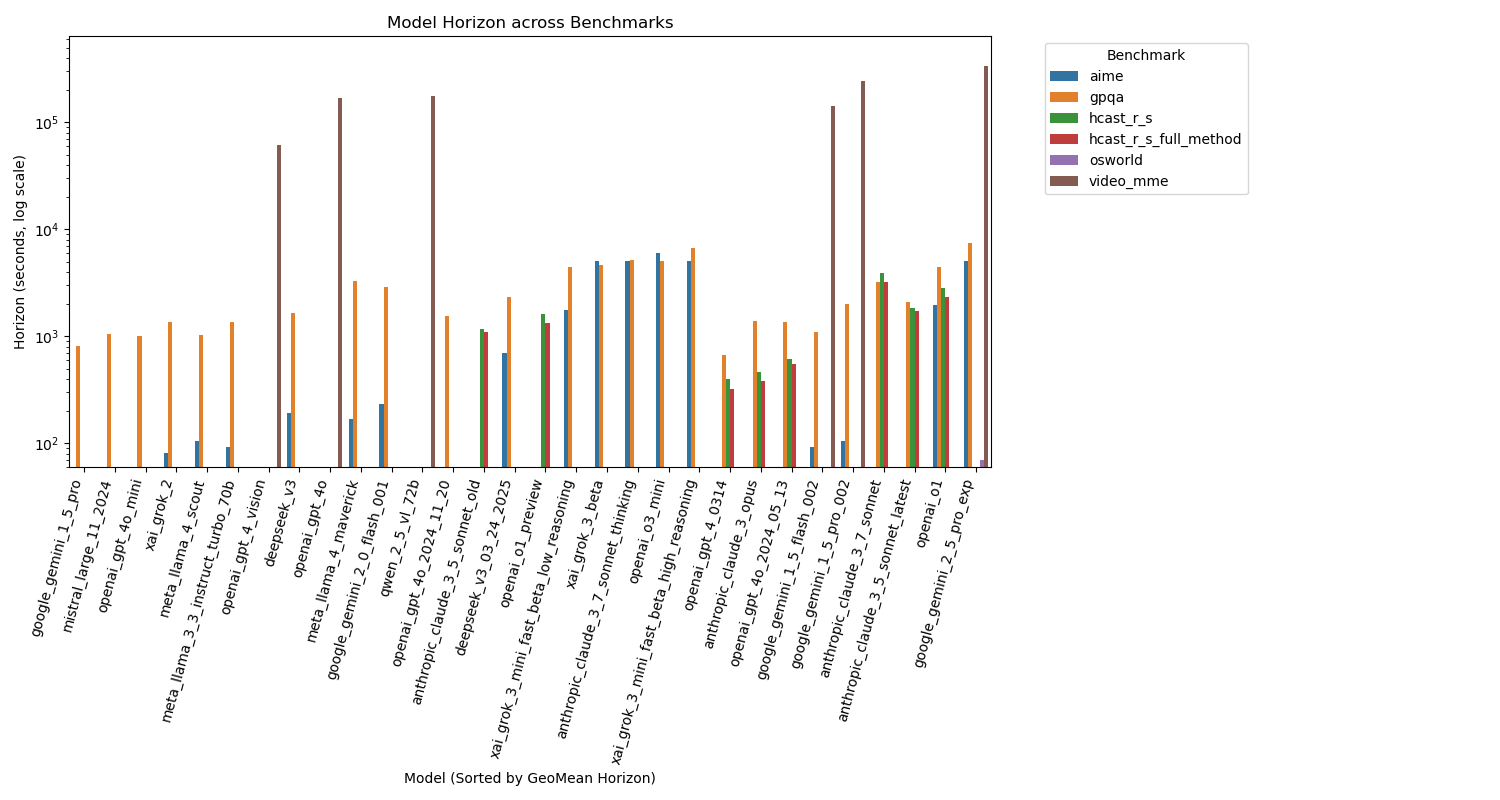
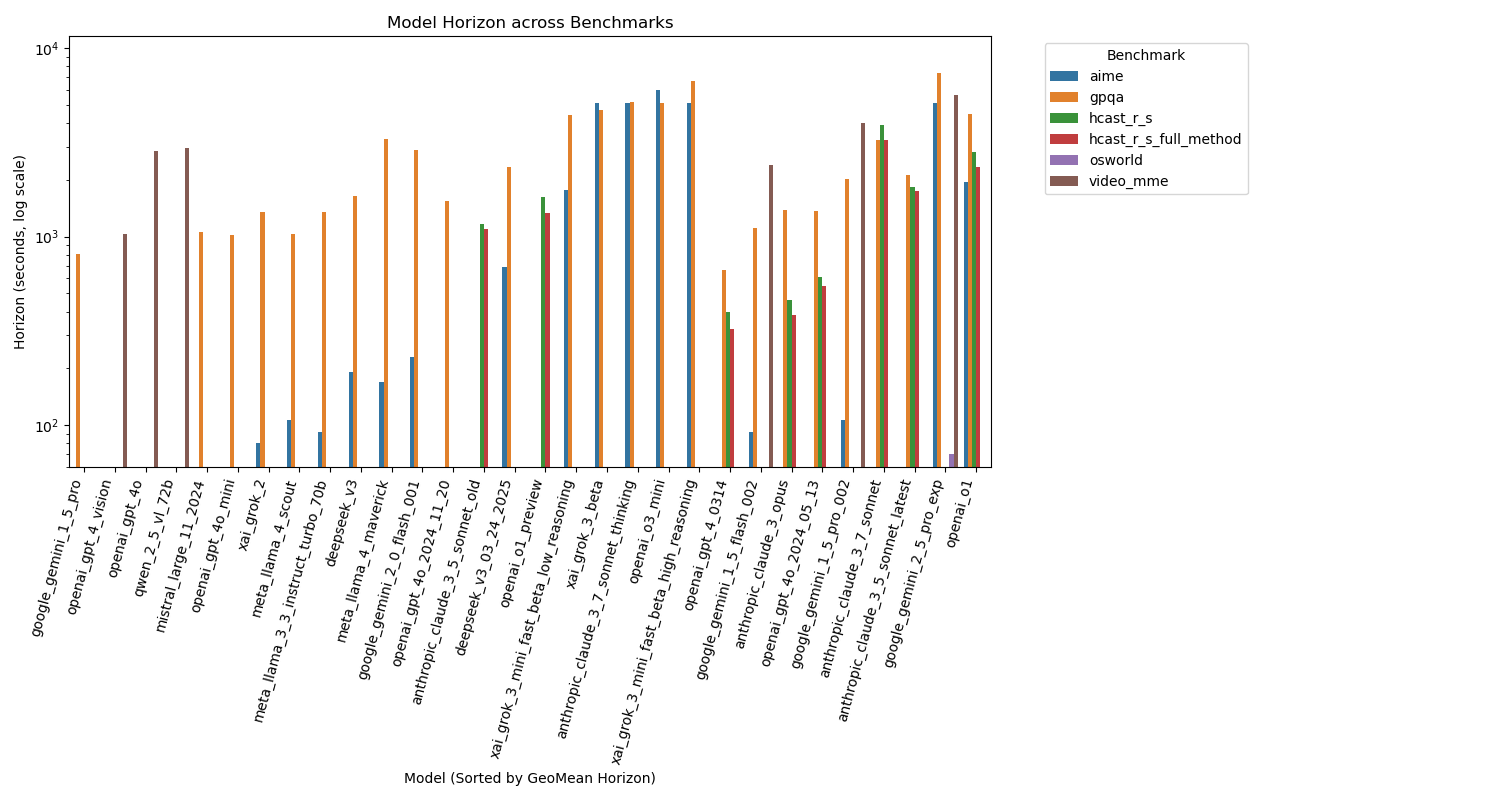
tesla and video_mme fixes

diff --git a/video_mme.py b/video_mme.py
@@ -80,8 +80,9 @@ def generate_benchmark_file(output_filename="data/benchmarks/video_mme.toml", in
     with open(input_csv_path, 'r', newline='') as csvfile:
         reader = csv.DictReader(csvfile)
         for row in reader:
-            min_duration_s = int(row['min_duration_s'])
-            max_duration_s = int(row['max_duration_s'])
+            # Convert seconds to minutes
+            min_duration_s = int(row['min_duration_s']) / 60
+            max_duration_s = int(row['max_duration_s']) / 60
             count = int(row['counts'])
 
             total_questions += count
@@ -106,7 +107,7 @@ def generate_benchmark_file(output_filename="data/benchmarks/video_mme.toml", in
         f.write(f"n_questions = {total_questions}\n")
         f.write(f"chance_accuracy = {CHANCE_ACCURACY}\n")
         # Format lengths similar to the gpqa.toml example
-        lengths_str = ", ".join(f"{length:.1f}" for length in all_lengths)
+        lengths_str = ", ".join(f"{length:.3f}" for length in all_lengths)
         f.write(f"lengths = [ {lengths_str}, ]\n")
     
     print(f"Generated benchmark file: {output_filename} with {total_questions} questions.")

diff --git a/tesla.py b/tesla.py
@@ -154,6 +154,7 @@ def save_horizon_data(processed_data, output_path):
     
     # Sort by date
     sorted_versions = sorted(processed_data.items(), key=lambda x: x[1]['release_date'])
+    print(sorted_versions)
     
     try:
         # Save city data
@@ -163,7 +164,10 @@ def save_horizon_data(processed_data, output_path):
             
             writer.writeheader()
             for version, data in sorted_versions:
-                horizon = harmonic_mean(data["city_minutes"], data["hwy_minutes"])
+                mtbf = harmonic_mean(data["city_minutes"], data["hwy_minutes"])
+
+                # MTBF is time until 1/e success rate, we want 1/2
+                horizon = mtbf * math.log(2) if mtbf else None
                 writer.writerow({
                     'release_date': data['release_date'],
                     'model': version,
